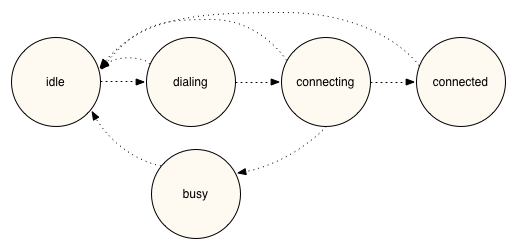
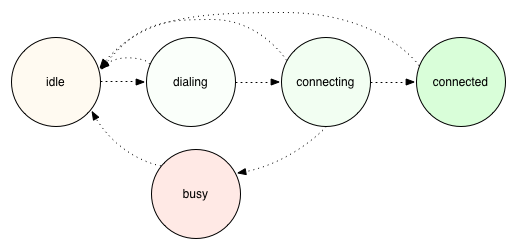
Added some color and syntax highlighting for the phone call.

Changed region(s): [[0.8062, 0.1406, 0.9922, 0.506]]

diff --git a/README.md b/README.md
@@ -48,7 +48,7 @@ Lets model something a bit more complex.
 
 ![Phone Call](https://raw.github.com/hopsoft/state_jacket/master/doc/phone-call.png)
 
-```
+```ruby
 require "state_jacket"
 
 states = StateJacket::Catalog.new
